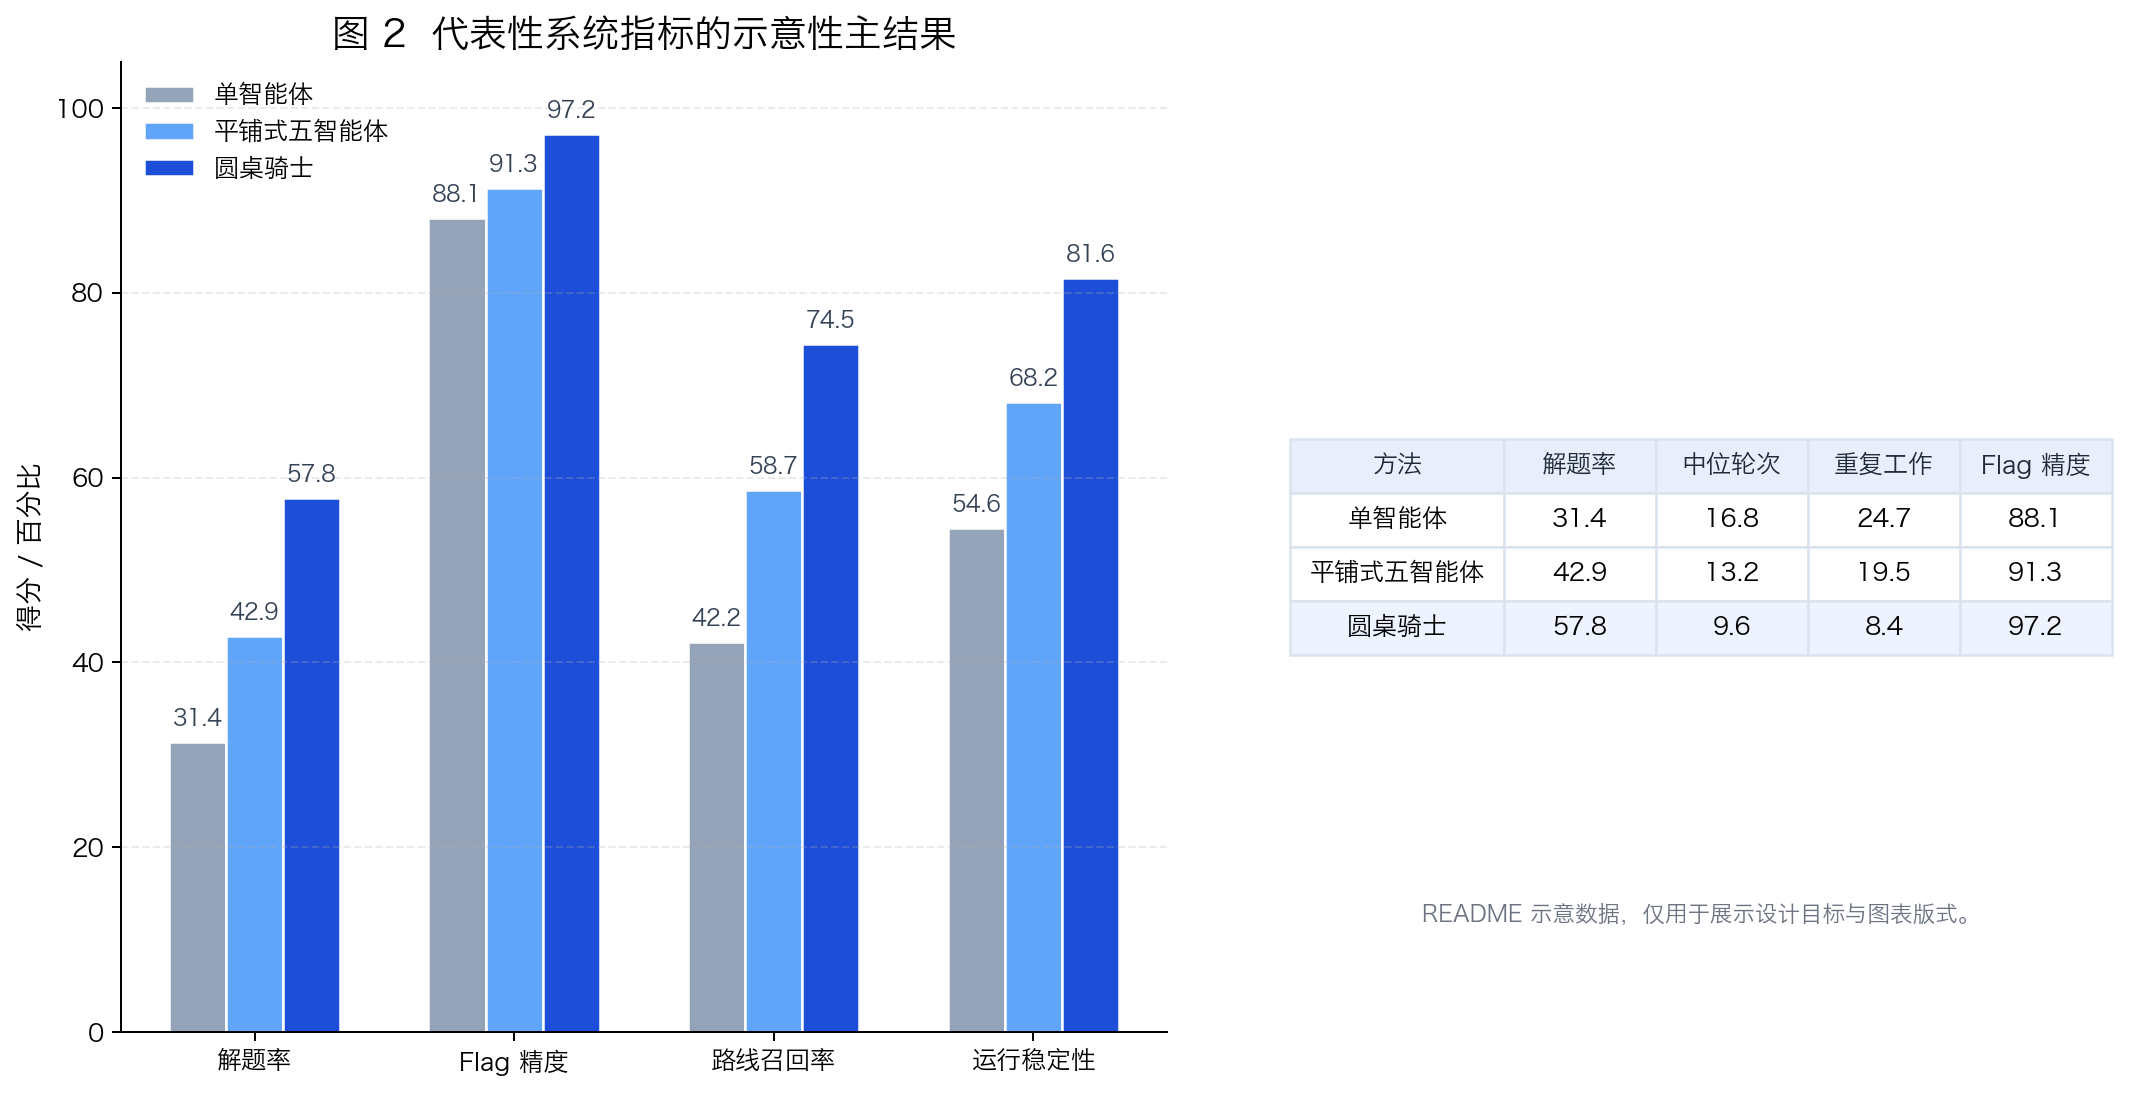
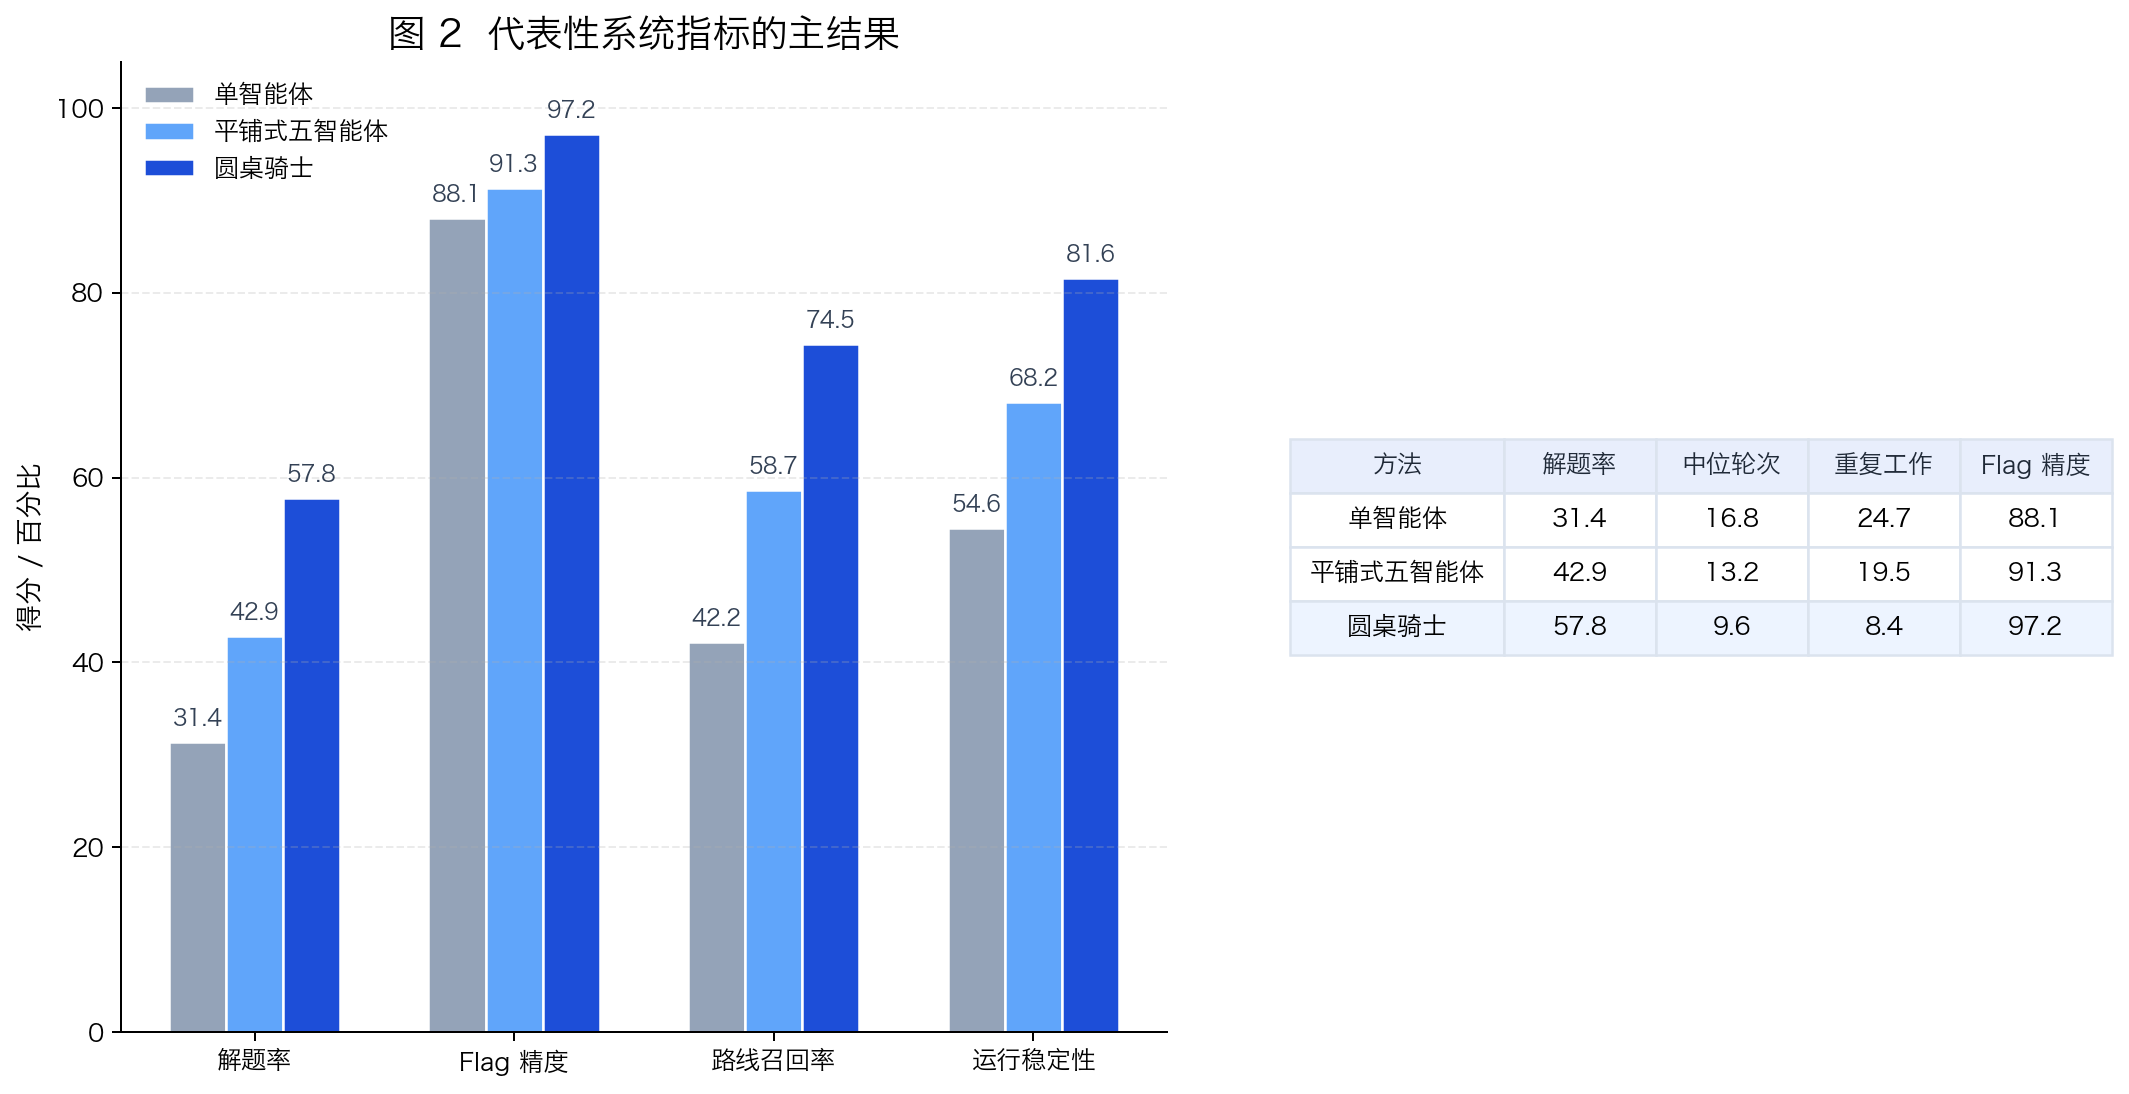
Refine main results figure labels

Changed region(s): [[0.155, 0.0, 0.465, 0.0622], [0.682, 0.808, 0.93, 0.8391]]

diff --git a/scripts/render_readme_figures.py b/scripts/render_readme_figures.py
@@ -189,7 +189,7 @@ def render_main_results() -> None:
     ax.set_ylabel("得分 / 百分比")
     ax.set_xticks(x)
     ax.set_xticklabels(metrics)
-    ax.set_title("图 2  代表性系统指标的示意性主结果", fontsize=15)
+    ax.set_title("图 2  代表性系统指标的主结果", fontsize=15)
     ax.grid(axis="y", linestyle="--", alpha=0.25)
     ax.legend(frameon=False, loc="upper left")
 
@@ -220,16 +220,6 @@ def render_main_results() -> None:
             cell.set_facecolor("#edf4ff")
         else:
             cell.set_facecolor("#ffffff")
-
-    tab_ax.text(
-        0.5,
-        0.12,
-        "README 示意数据，仅用于展示设计目标与图表版式。",
-        ha="center",
-        va="center",
-        fontsize=9,
-        color="#6b7280",
-    )
 
     fig.savefig(ASSET_DIR / "main_results.png", bbox_inches="tight")
     plt.close(fig)
